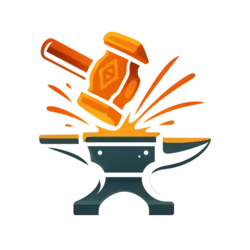
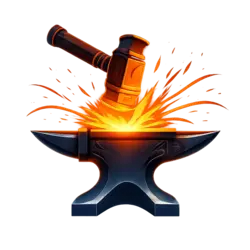
feat: созданы конфиги страниц с ошибками
--error-page/pageConfig: созданы конфиги для страниц 500 и
старницы просроченого или невалидного токена для восстановления
пароля
--ErrorPage: правки в стилях
--imgs: изменены некоторые иконки

Changed region(s): [[0.112, 0.084, 0.924, 0.868], [0.784, 0.196, 0.812, 0.224]]

diff --git a/src/pages/error-page/ErrorPage.tsx b/src/pages/error-page/ErrorPage.tsx
@@ -9,7 +9,7 @@ import { notFoundPageConfig } from './page-config/errorPage.config';
 import { ImageComp } from '@/UI/image-comp/ImageComp';
 import brokenAnvilIcon from '/imgs/webp/broken-anvil-icon.webp';
 
-type LocationState = {
+export type LocationState = {
 	locationTitle?: string;
 	locationSubtitle?: string;
 	locationDescription?: string;
@@ -27,26 +27,17 @@ export const ErrorPage = () => {
 
 	return (
 		<MaxWidthContainer width={'fit-content'} className="min-h-screen text-center flex flex-col items-center justify-center py-10">
-			<TextGradient
-				ComponentType={'h1'}
-				className={cn(
-					'font-extrabold flex items-center justify-center',
-					'text-8xl sm:text-9xl lg:text-[10rem] xl:text-[14rem]',
-					'h-26 sm:h-36 lg:h-40 xl:h-50'
-				)}
-			>
+			<TextGradient ComponentType={'h1'} className={cn('font-extrabold flex items-center justify-center', 'text-6xl sm:text-7xl lg:text-8xl')}>
 				{locationTitle ?? title}
 			</TextGradient>
 
 			<ImageComp
-				className={cn('w-26 h-26 sm:w-40 sm:h-40 lg:w-50 lg:h-50 xl:w-66 xl:h-66', 'mb-6 lg:mb-8')}
-				imgAttr={{ src: brokenAnvilIcon, className: 'max-w-36 sm:max-w-50 lg:max-w-60 xl:max-w-80 h-auto object-cover' }}
+				className={cn('overflow-hidden', 'w-40 h-40 sm:w-44 sm:h-44 lg:w-48 lg:h-48')}
+				imgAttr={{ src: brokenAnvilIcon, className: 'max-w-46 sm:max-w-50 lg:max-w-54 h-auto object-contain' }}
 			/>
 
-			<p className={cn('font-bold text-[var(--white)]', 'text-2xl lg:text-3xl xl:text-4xl', 'mb-1 lg:mb-2 xl:mb-3')}>
-				{locationSubtitle ?? subtitle}
-			</p>
-			<p className={cn('text-[var(--white)] italic max-w-md xl:max-w-lg', 'lg:text-lg xl:text-xl', 'mb-8 lg:mb-10')}>
+			<p className={cn('font-bold text-(--white)', 'text-2xl lg:text-3xl xl:text-4xl', 'mb-2 sm:mb-4')}>{locationSubtitle ?? subtitle}</p>
+			<p className={cn('text-(--white) italic max-w-md sm:max-w-lg lg:max-w-3xl', 'lg:text-lg xl:text-xl', 'mb-8 lg:mb-12')}>
 				{locationDescription ?? description}
 			</p>
 
@@ -62,8 +53,8 @@ export const ErrorPage = () => {
 						navigate(locationPath ?? '/', { replace: true });
 					}}
 					classNames={{
-						button: cn('w-full text-white font-bold', 'text-xl lg:text-2xl', 'py-1.5'),
-						blik: cn('h-[400%] w-[25%] sm:w-[15%] lg:w-[12%] xl:w-[10%]', 'sm:duration-800 lg:duration-1100 xl:duration-1200'),
+						button: cn('w-full text-(--white) font-bold', 'text-lg lg:text-xl', 'py-1.25'),
+						blik: cn('h-[400%] w-[15%] sm:w-[14%] lg:w-[11%] xl:w-[10%]', 'duration-800 sm:duration-1000 lg:duration-1100'),
 					}}
 					isBlink={true}
 				>

diff --git a/src/pages/change-password/UI/check-change-pass-token/checkChangePassToken.tsx b/src/pages/change-password/UI/check-change-pass-token/checkChangePassToken.tsx
@@ -1,8 +1,9 @@
 /* --- Imports --- */
 import { apiUrl, changePassValidateUrl, errorPageRoute } from '@/utils/urls';
-import axios from 'axios';
+import axios, { AxiosError } from 'axios';
 import { useEffect, useState } from 'react';
 import { Outlet, useNavigate, useSearchParams } from 'react-router';
+import { resetPasswordPageConfig, serverErrorPageConfig } from '@/pages/error-page/page-config/errorPage.config';
 
 /* --- CheckChangePassToken Component --- */
 export const CheckChangePassToken = () => {
@@ -17,8 +18,15 @@ export const CheckChangePassToken = () => {
 				await axios.get(`${apiUrl}${changePassValidateUrl}`, { params: paramsObj });
 
 				setIsAllow(true);
-			} catch {
-				navigate(errorPageRoute, { replace: true });
+			} catch (error) {
+				const err = error as AxiosError;
+				const status = err.response?.status;
+
+				if (status == 400) {
+					navigate(errorPageRoute, { replace: true, state: resetPasswordPageConfig });
+				}
+
+				navigate(errorPageRoute, { replace: true, state: serverErrorPageConfig });
 			}
 		})();
 	}, [paramsObj, navigate]);

diff --git a/src/pages/error-page/page-config/errorPage.config.ts b/src/pages/error-page/page-config/errorPage.config.ts
@@ -1,6 +1,28 @@
+/* --- Imports --- */
+import { forgotPasswordRoute } from '@/utils/urls';
+import type { LocationState } from '@/pages/error-page/ErrorPage';
+
+/* --- pageConfigs --- */
 export const notFoundPageConfig = {
 	title: '404',
 	subtitle: 'Page not found',
 	description: 'The page you’re looking for doesn’t exist or was moved to another forge.',
 	btnText: 'Return to Forge',
 };
+
+export const resetPasswordPageConfig = {
+	locationPath: forgotPasswordRoute,
+	locationDescription:
+		'The token has lost its power. It might have expired or already been used. Head back to the Forge to request a new reset link.',
+	locationTitle: '400',
+	locationSubtitle: 'Forge reset failed',
+	locationBtnText: 'Request new rune',
+} as LocationState;
+
+export const serverErrorPageConfig = {
+	locationPath: '/',
+	locationDescription: 'Something went wrong in the Forge. The cogs stopped turning. Our team is reforging the system.',
+	locationTitle: '500',
+	locationSubtitle: 'The Forge Went Dark',
+	locationBtnText: 'Return to Forge',
+} as LocationState;

diff --git a/src/routes/AppRoutes.tsx b/src/routes/AppRoutes.tsx
@@ -12,7 +12,7 @@ import { lazy, Suspense } from 'react';
 import { GlobalLoader } from '../UI/loaders/global-loader/GlobalLoader';
 import { ForgotPasswordPage } from '@/pages/forgot-password/ForgotPasswordPage';
 import { ChangePasswordPage } from '@/pages/change-password/ChangePasswordPage';
-import { CheckChangePassToken } from '@/pages/change-password/UI/checkChangePassToken';
+import { CheckChangePassToken } from '@/pages/change-password/UI/check-change-pass-token/checkChangePassToken';
 
 /* --- Lazy Imports --- */
 const LazyAuthLayout = lazy(() => import('@/UI/layout/auth-layout/AuthLayout').then(module => ({ default: module.AuthLayout })));

diff --git a/src/UI/auth-form/UI/btn-send-code/BtnSendCode.tsx b/src/UI/auth-form/UI/btn-send-code/BtnSendCode.tsx
@@ -21,10 +21,10 @@ export const BtnSendCode = ({ isLoading, verifyCode, getEmail, setResMessage }: 
 			type="button"
 			className={cn(
 				'sm:text-lg',
-				'w-1/2 text-white rounded-3xl bg-black/40 shadow-xs tracking-[0.5px] cursor-pointer flex items-center justify-center relative top-px',
+				'w-1/2 text-(--white) rounded-3xl bg-black/40 shadow-xs tracking-[0.5px] cursor-pointer flex items-center justify-center relative top-px',
 				'transition-all duration-300 ease-out',
 				'h-10 sm:h-11',
-				'hover:shadow-white'
+				'hover:shadow-white focus-visible:shadow-white'
 			)}
 			disabled={isLoading || isSend}
 			onClick={handleSendCode}
